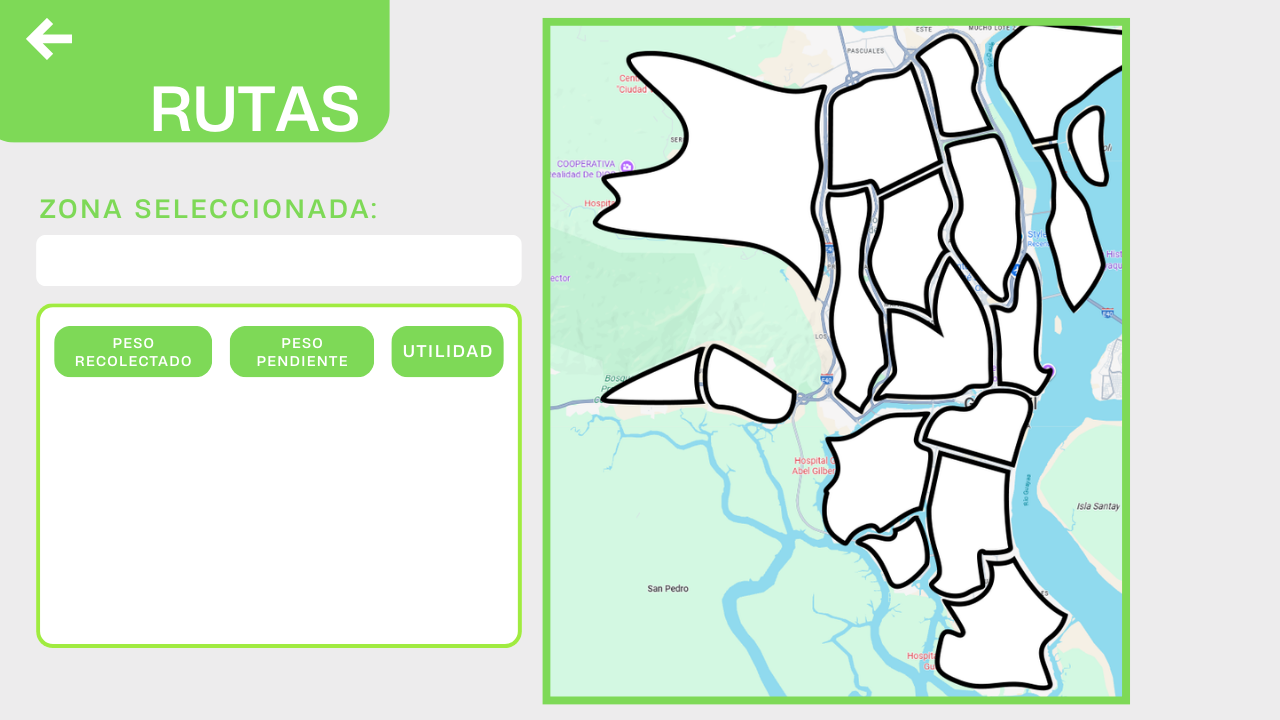
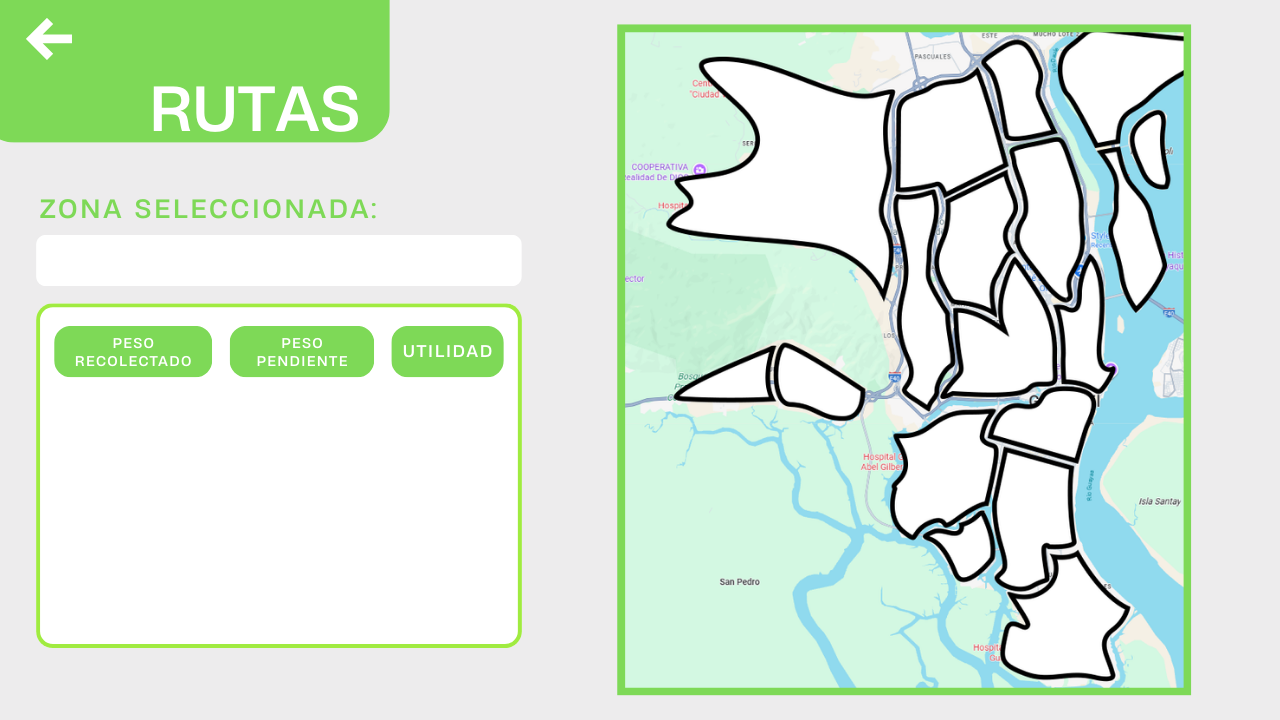
Mapa Interactivo Implementado

diff --git a/src/controladores/ZonasController.java b/src/controladores/ZonasController.java
@@ -1,0 +1,186 @@
+/*
+ * Click nbfs://nbhost/SystemFileSystem/Templates/Licenses/license-default.txt to change this license
+ * Click nbfs://nbhost/SystemFileSystem/Templates/javafx/FXMLController.java to edit this template
+ */
+package controladores;
+
+import java.io.IOException;
+import java.net.URL;
+import java.util.ResourceBundle;
+import javafx.event.ActionEvent;
+import javafx.fxml.FXML;
+import javafx.fxml.FXMLLoader;
+import javafx.fxml.Initializable;
+import javafx.scene.Node;
+import javafx.scene.Parent;
+import javafx.scene.Scene;
+import javafx.scene.control.Button;
+import javafx.scene.image.Image;
+import javafx.scene.image.ImageView;
+import javafx.stage.Stage;
+
+/**
+ * FXML Controller class
+ *
+ * @author Paúl Rodríguez
+ */
+public class ZonasController{
+
+    private Stage stage;
+    private Scene scene;
+    private Parent root;    
+    
+    @FXML
+    private ImageView zonasSceneView;
+    @FXML
+    private ImageView mapaView;
+    
+    @FXML
+    private Button centroButton;
+    @FXML
+    private Button entreRiosPuntillaButton;
+    @FXML
+    private Button FAEButton;
+    @FXML
+    private Button guasmoButton;
+    @FXML
+    private Button islaMocoliButton;
+    @FXML
+    private Button islaTrinitariaButton;
+    @FXML
+    private Button parqueCenterarioButton;
+    @FXML
+    private Button porteteButton;
+    @FXML
+    private Button prosperinaCeibosButton;
+    @FXML
+    private Button samborondonButton;
+    @FXML
+    private Button sanFelipeMapasingueButton;
+    @FXML
+    private Button urdesaKeneddyButton;
+    @FXML
+    private Button viaCosta1Button;
+    @FXML
+    private Button viaCosta2Button;
+    @FXML
+    private Button bastionButton;
+    @FXML
+    private Button saucesSamanesButton;
+    @FXML
+    private Button vergelesButton;
+    @FXML
+    private Button fortinMonteSinaiButton;
+    
+    @FXML
+    private Button returnButton;
+    
+    @FXML
+    public void initialize(URL url, ResourceBundle rb) {
+        System.out.println("MainScene cargada correctamente");
+        
+        // Información del sistema (opcional)
+        String javaVersion = System.getProperty("java.version");
+        String javafxVersion = System.getProperty("javafx.version");
+        System.out.println("Java Version: " + javaVersion);
+        System.out.println("JavaFX Version: " + javafxVersion);
+        
+        // Configuración adicional del ImageView si es necesario
+        configureImageView();
+    }
+    
+    private void configureImageView() {
+        // Asegurar que la imagen mantenga su proporción
+        zonasSceneView.setPreserveRatio(true);
+        
+        // Hacer que la imagen sea suave al escalar
+        zonasSceneView.setSmooth(true);
+    }
+    
+    @FXML
+    public void highlightFortinMonteSinai(){
+        mapaView.setImage(new Image(getClass().getResourceAsStream("/images/MapasGYE/Mapa Guayaquil Trazado Zona Fortin-MonteSinai.png")));
+    }
+    @FXML
+    public void highlightVergeles(){
+        mapaView.setImage(new Image(getClass().getResourceAsStream("/images/MapasGYE/Mapa Guayaquil Trazado Blanco Zona Vergeles.png")));
+    }
+    @FXML
+    public void highlightSaucesSamanes(){
+        mapaView.setImage(new Image(getClass().getResourceAsStream("/images/MapasGYE/Mapa Guayaquil Trazado Blanco Zona Sauces-Samanes.png")));
+    }
+    @FXML
+    public void highlightBastion(){
+        mapaView.setImage(new Image(getClass().getResourceAsStream("/images/MapasGYE/Mapa Guayaquil Trazado Blanco Zona Bastion.png")));
+    }
+    @FXML
+    public void highlightViaCosta2(){
+        mapaView.setImage(new Image(getClass().getResourceAsStream("/images/MapasGYE/Mapa Guayaquil Trazado Blanco Via a la costa 2.png")));
+    }
+    @FXML
+    public void highlightViaCosta1(){
+        mapaView.setImage(new Image(getClass().getResourceAsStream("/images/MapasGYE/Mapa Guayaquil Trazado Blanco Via a la costa 1.png")));
+    }
+    @FXML
+    public void highlightUrdesaKennedy(){
+        mapaView.setImage(new Image(getClass().getResourceAsStream("/images/MapasGYE/Mapa Guayaquil Trazado Blanco Urdesa-Kennedy.png")));
+    }
+    @FXML
+    public void highlightSanFelipeMapasingue(){
+        mapaView.setImage(new Image(getClass().getResourceAsStream("/images/MapasGYE/Mapa Guayaquil Trazado Blanco San Felipe-Mapasingue.png")));
+    }
+    @FXML
+    public void highlightSamborondon(){
+        mapaView.setImage(new Image(getClass().getResourceAsStream("/images/MapasGYE/Mapa Guayaquil Trazado Blanco Samborondon.png")));
+    }
+    @FXML
+    public void highlightProsperinaCeibos(){
+        mapaView.setImage(new Image(getClass().getResourceAsStream("/images/MapasGYE/Mapa Guayaquil Trazado Blanco Prosperina-Ceibos.png")));
+    }
+    @FXML
+    public void highlightPortete(){
+        mapaView.setImage(new Image(getClass().getResourceAsStream("/images/MapasGYE/Mapa Guayaquil Trazado Blanco Portete.png")));
+    }
+    @FXML
+    public void highlightParqueCentenario(){
+        mapaView.setImage(new Image(getClass().getResourceAsStream("/images/MapasGYE/Mapa Guayaquil Trazado Blanco Parque Centenario.png")));
+    }
+    @FXML
+    public void highlightIslaTrinitaria(){
+        mapaView.setImage(new Image(getClass().getResourceAsStream("/images/MapasGYE/Mapa Guayaquil Trazado Blanco Isla Trinitaria.png")));
+    }
+    @FXML
+    public void highlightIslaMocoli(){
+        mapaView.setImage(new Image(getClass().getResourceAsStream("/images/MapasGYE/Mapa Guayaquil Trazado Blanco Isla Mocoli.png")));
+    }
+    @FXML
+    public void highlightGuasmo(){
+        mapaView.setImage(new Image(getClass().getResourceAsStream("/images/MapasGYE/Mapa Guayaquil Trazado Blanco Guasmo.png")));
+    }
+    @FXML
+    public void highlightFAE(){
+        mapaView.setImage(new Image(getClass().getResourceAsStream("/images/MapasGYE/Mapa Guayaquil Trazado Blanco FAE.png")));
+    }
+    @FXML
+    public void highlightEntreRiosPuntilla(){
+        mapaView.setImage(new Image(getClass().getResourceAsStream("/images/MapasGYE/Mapa Guayaquil Trazado Blanco Entre Rios-La Puntilla.png")));
+    }
+    @FXML
+    public void highlightCentro(){
+        mapaView.setImage(new Image(getClass().getResourceAsStream("/images/MapasGYE/Mapa Guayaquil Trazado Blanco Centro.png")));
+    }
+    
+    
+    
+    
+
+    @FXML
+    private void switchToSceneMain(ActionEvent event) throws IOException{
+            Parent root = FXMLLoader.load(getClass().getResource("/vistas/ecotrack.fxml"));
+            stage = (Stage)((Node)event.getSource()).getScene().getWindow();
+            scene = new Scene(root);
+            stage.setScene(scene);
+            stage.show();
+    }    
+    
+}

diff --git a/src/controladores/EcotrackController.java b/src/controladores/EcotrackController.java
@@ -31,24 +31,21 @@ public class EcotrackController {
     
     @FXML
     private Button residuosButton;
-    
     @FXML
-    public void initialize() {
-        System.out.println("MainScene cargada correctamente");
-        
-        // Información del sistema (opcional)
-        String javaVersion = System.getProperty("java.version");
-        String javafxVersion = System.getProperty("javafx.version");
-        System.out.println("Java Version: " + javaVersion);
-        System.out.println("JavaFX Version: " + javafxVersion);
-        
-        // Configuración adicional del ImageView si es necesario
-        configureImageView();
-    }
+    private Button zonasButton;
     
     @FXML
     private void switchToSceneResiduos(ActionEvent event) throws IOException{
         Parent root = FXMLLoader.load(getClass().getResource("/vistas/ResiduosMenu.fxml"));
+        stage = (Stage)((Node)event.getSource()).getScene().getWindow();
+        scene = new Scene(root);
+        stage.setScene(scene);
+        stage.show();
+    }
+    
+    @FXML
+    private void switchToSceneZonas(ActionEvent event) throws IOException{
+        Parent root = FXMLLoader.load(getClass().getResource("/vistas/RutasMenu.fxml"));
         stage = (Stage)((Node)event.getSource()).getScene().getWindow();
         scene = new Scene(root);
         stage.setScene(scene);

diff --git a/src/controladores/ResiduosController.java b/src/controladores/ResiduosController.java
@@ -21,7 +21,7 @@ import javafx.stage.Stage;
 /**
  * FXML Controller class
  *
- * @author Dominic
+ * @author Dominic Izurrieta & Paúl Rodríguez
  */
 public class ResiduosController{
 
